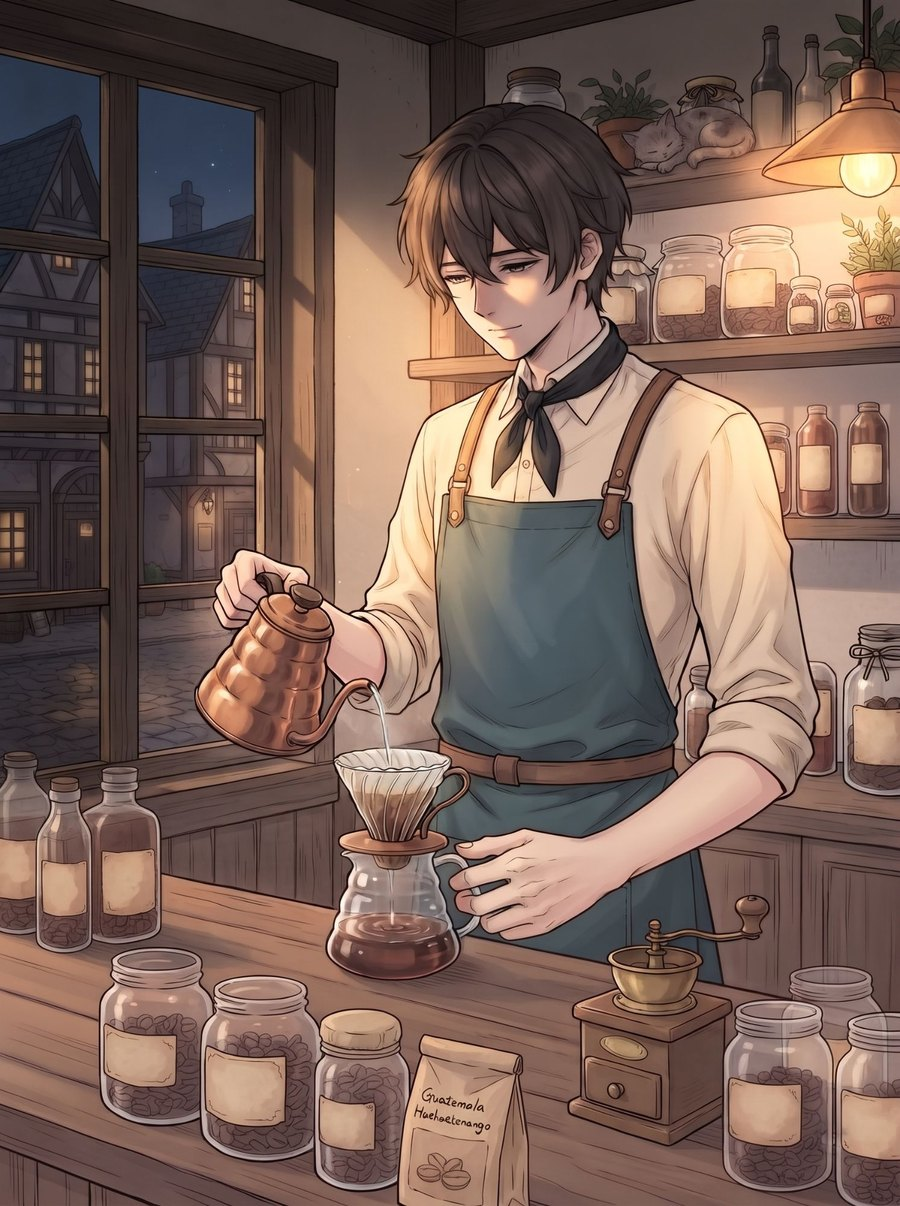
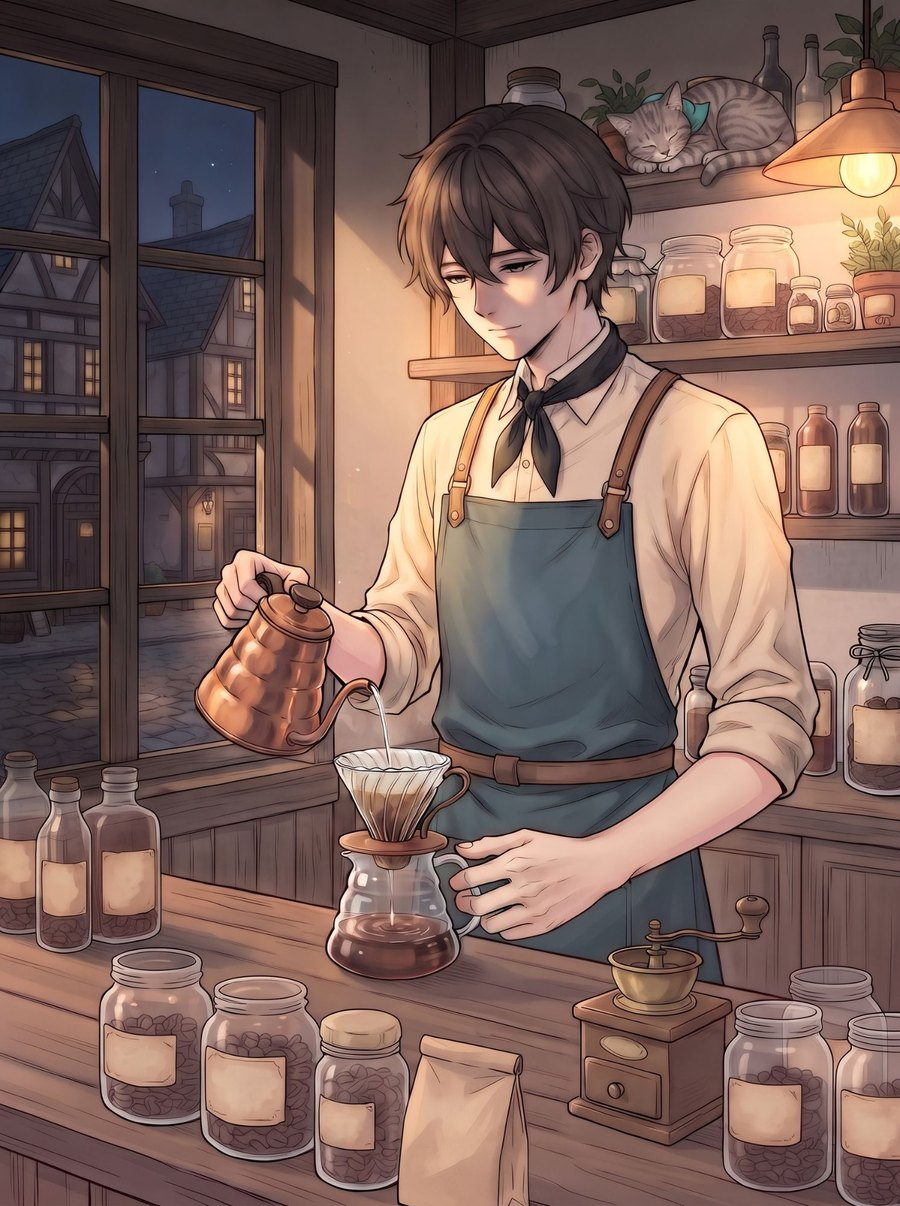
Cafe (male): same tabby shop cat, blank coffee bag label
Claude-Session: https://claude.ai/code/session_015Mqcw1CUwCrp5H32bc8ZgS

diff --git a/DESIGN.md b/DESIGN.md
@@ -944,7 +944,7 @@ Cozy hand-drawn illustration, clean ink outlines, soft flat colors with light sh
 
 **已定稿：咖啡館店長（隱藏職業）**
 
-- 男版 `cafe_m.jpg`：精緻美形，半垂眼專注地用銅色鵝頸壺手沖，暖色吊燈側光，店貓在架上睡覺（待補：店貓改成同花色並戴圍巾）
+- 男版 `cafe_m.jpg`：精緻美形，半垂眼專注地用銅色鵝頸壺手沖，暖色吊燈側光，店貓是跟女版同一隻灰虎斑、戴藍綠色領巾，在架上睡覺
 - 女版 `cafe_f.jpg`：鄰家女孩，雀斑、明亮笑容，雙手遞出立體貓拉花咖啡，店貓在吧台舔爪子；吧台上有濾杯下壺、貓爪餅乾、咖啡豆
 
 **其他職業的做法**
